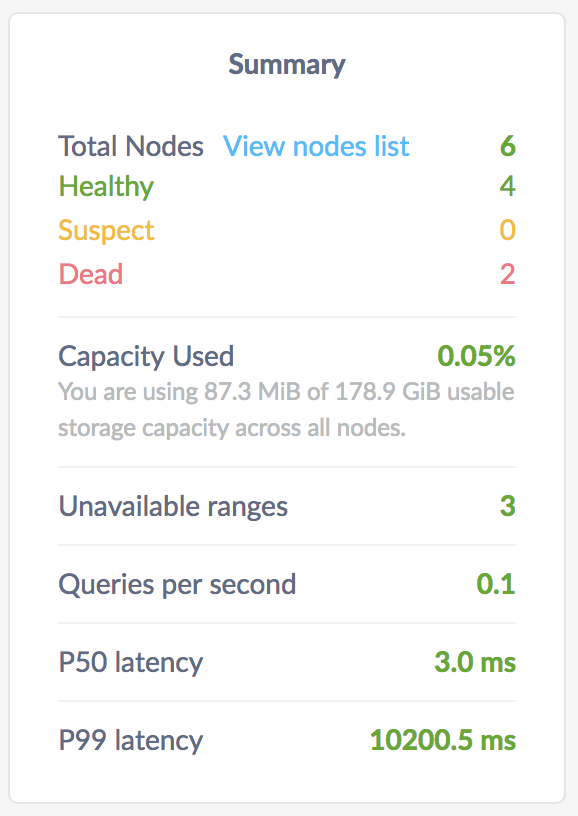
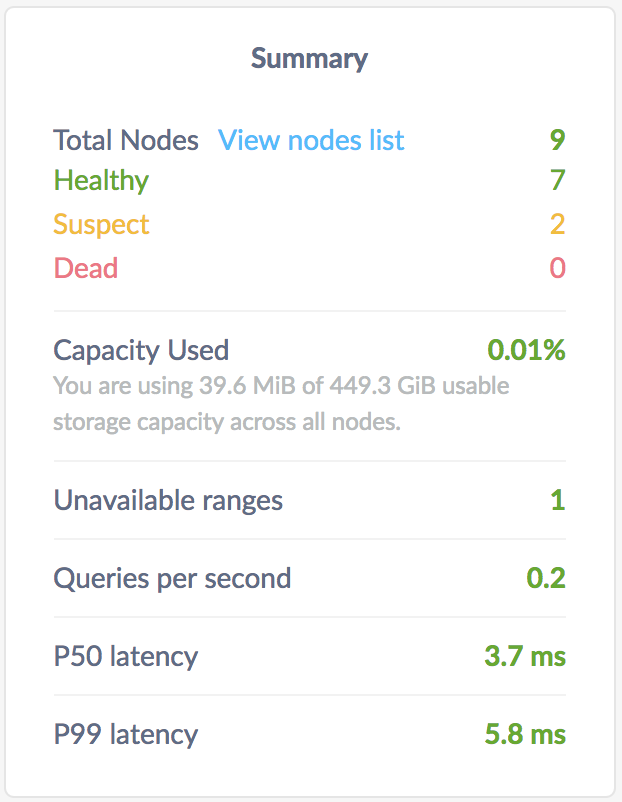
Fix data unavailability tutorial
It was broken for a few main reasons:

1. There was no guarantee that important system data wouldn't end up on
the two nodes that we're bringing down, since we were only using two
localities.
2. Even if we used 3 localities, the pattern of starting up a 3-node
cluster first and then adding more nodes means that the system ranges
may not be properly spread across the diversities, since in v1.1 we
don't proactively move data around to improve diversity.
3. A read-only query isn't guaranteed to hang even if a range is
unavailable. If we only kill the 2 non-leaseholders, the leaseholder
will still be able to keep extending its lease (via node liveness)
and serve reads.

To fix #1, I've modified this to spin up a 9 node cluster across 3
localities.
To fix #2, I've spun up all the nodes before running cockroach init.
We can go back to the old way of doing this once the labs use v2.0.
To fix #3, I've switched from demo-ing a SELECT to using an INSERT.

diff --git a/training/data-unavailability-troubleshooting.md b/training/data-unavailability-troubleshooting.md
@@ -14,15 +14,53 @@ In this lab, you'll cause a table's range to lose a majority of its replicas (2 
 </style>
 <div id="toc"></div>
 
-## Before You Begin
+## Step 1. Start a cluster spread across 3 separate localities
 
-Make sure you have already completed [Cluster Unavailability Troubleshooting](cluster-unavailability-troubleshooting.html) and have a cluster of 3 nodes running.
+Create a 9 node cluster, with 3 nodes in each of 3 different localities.
 
-## Step 1. Prepare to simulate the problem
+1. In a new terminal, start node 1 in locality us-east-1:
 
-In preparation, add three more nodes with a distinct `--locality`, add a table, and use a replication zone to force the table's data onto the new nodes.
+    {% include copy-clipboard.html %}
+    ~~~ shell
+    $ cockroach start \
+    --insecure \
+    --locality=datacenter=us-east-1 \
+    --store=node1 \
+    --host=localhost \
+    --port=26257 \
+    --http-port=8080 \
+    --join=localhost:26257,localhost:26258,localhost:26259 &
+    ~~~~
 
-1. In a new terminal, start node 4:
+2. In the same terminal, start node 2 in locality us-east-1:
+
+    {% include copy-clipboard.html %}
+    ~~~ shell
+    $ cockroach start \
+    --insecure \
+    --locality=datacenter=us-east-1 \
+    --store=node2 \
+    --host=localhost \
+    --port=26258 \
+    --http-port=8081 \
+    --join=localhost:26257,localhost:26258,localhost:26259 &
+    ~~~~
+
+3. In the same terminal, start node 3 in locality us-east-1:
+
+    {% include copy-clipboard.html %}
+    ~~~ shell
+    $ cockroach start \
+    --insecure \
+    --locality=datacenter=us-east-1 \
+    --store=node3 \
+    --host=localhost \
+    --port=26259 \
+    --http-port=8082 \
+    --join=localhost:26257,localhost:26258,localhost:26259 &
+    ~~~~
+
+4. In the same terminal, start node 4 in locality us-east-2:
 
     {% include copy-clipboard.html %}
     ~~~ shell
@@ -33,10 +71,10 @@ In preparation, add three more nodes with a distinct `--locality`, add a table, 
     --host=localhost \
     --port=26260 \
     --http-port=8083 \
-    --join=localhost:26257,localhost:26258,localhost:26259
-    ~~~~
+    --join=localhost:26257,localhost:26258,localhost:26259 &
+    ~~~
 
-2. In a new terminal, start node 5:
+5. In the same terminal, start node 5 in locality us-east-2:
 
     {% include copy-clipboard.html %}
     ~~~ shell
@@ -47,10 +85,10 @@ In preparation, add three more nodes with a distinct `--locality`, add a table, 
     --host=localhost \
     --port=26261 \
     --http-port=8084 \
-    --join=localhost:26257,localhost:26258,localhost:26259
+    --join=localhost:26257,localhost:26258,localhost:26259 &
     ~~~
 
-3. In a new terminal, start node 6:
+6. In the same terminal, start node 6 in locality us-east-2:
 
     {% include copy-clipboard.html %}
     ~~~ shell
@@ -61,21 +99,74 @@ In preparation, add three more nodes with a distinct `--locality`, add a table, 
     --host=localhost \
     --port=26262 \
     --http-port=8085 \
-    --join=localhost:26257,localhost:26258,localhost:26259
+    --join=localhost:26257,localhost:26258,localhost:26259 &
     ~~~
 
-4. In a new terminal, generate an `intro` database with a `mytable` table:
+7. In the same terminal, start node 7 in locality us-east-3:
+
+    {% include copy-clipboard.html %}
+    ~~~ shell
+    $ cockroach start \
+    --insecure \
+    --locality=datacenter=us-east-3 \
+    --store=node7 \
+    --host=localhost \
+    --port=26263 \
+    --http-port=8086 \
+    --join=localhost:26257,localhost:26258,localhost:26259 &
+    ~~~
+
+8. In the same terminal, start node 8 in locality us-east-3:
+
+    {% include copy-clipboard.html %}
+    ~~~ shell
+    $ cockroach start \
+    --insecure \
+    --locality=datacenter=us-east-3 \
+    --store=node8 \
+    --host=localhost \
+    --port=26264 \
+    --http-port=8087 \
+    --join=localhost:26257,localhost:26258,localhost:26259 &
+    ~~~
+
+9. In the same terminal, start node 9 in locality us-east-3:
+
+    {% include copy-clipboard.html %}
+    ~~~ shell
+    $ cockroach start \
+    --insecure \
+    --locality=datacenter=us-east-3 \
+    --store=node9 \
+    --host=localhost \
+    --port=26265 \
+    --http-port=8088 \
+    --join=localhost:26257,localhost:26258,localhost:26259 &
+    ~~~
+
+10. In the same terminal, perform a one-time initialization of the cluster:
+
+    {% include copy-clipboard.html %}
+    ~~~ shell
+    $ cockroach init --insecure
+    ~~~
+
+## Step 2. Simulate the problem
+
+In preparation, add a table and use a replication zone to force the table's data onto the new nodes.
+
+1. Generate an `intro` database with a `mytable` table:
 
     {% include copy-clipboard.html %}
     ~~~ shell
     $ cockroach gen example-data intro | cockroach sql --insecure
     ~~~
 
-5. Create a [replication zone](../v1.1/configure-replication-zones.html) forcing the replicas of the `mytable` range to be located on nodes with the `datacenter=us-east-2` locality:
+2. Create a [replication zone](../v1.1/configure-replication-zones.html) forcing the replicas of the `mytable` range to be located on nodes with the `datacenter=us-east-3` locality:
 
     {% include copy-clipboard.html %}
     ~~~ shell
-    $ echo 'constraints: [+datacenter=us-east-2]' | cockroach zone set intro.mytable --insecure -f -
+    $ echo 'constraints: [+datacenter=us-east-3]' | cockroach zone set intro.mytable --insecure -f -
     ~~~
 
     ~~~
@@ -84,10 +175,10 @@ In preparation, add three more nodes with a distinct `--locality`, add a table, 
     gc:
       ttlseconds: 90000
     num_replicas: 3
-    constraints: [+datacenter=us-east-2]
+    constraints: [+datacenter=us-east-3]
     ~~~
 
-6. Use the `SHOW TESTING_RANGES` SQL command to verify that the replicas for the `mytable` table are now located on nodes 4, 5, and 6:
+3. Use the `SHOW TESTING_RANGES` SQL command to determine the nodes on which the replicas for the `mytable` table are now located:
 
     {% include copy-clipboard.html %}
     ~~~ shell
@@ -100,29 +191,45 @@ In preparation, add three more nodes with a distinct `--locality`, add a table, 
     +-----------+---------+----------+--------------+
     | Start Key | End Key | Replicas | Lease Holder |
     +-----------+---------+----------+--------------+
-    | NULL      | NULL    | {4,5,6}  |            6 |
+    | NULL      | NULL    | {3,6,9}  |            9 |
     +-----------+---------+----------+--------------+
     (1 row)
     ~~~
 
-## Step 2. Simulate the problem
+4. Verify that the listed nodes are all in the `datacenter=us-east-3` locality by opening the Node Diagnostics debug page at <a href="http://localhost:8080/#/reports/nodes" data-proofer-ignore>http://localhost:8080/#/reports/nodes</a> and checking the locality for each of the 3 node IDs.
 
-Stop 2 of the nodes containing `mytable` replicas. This will cause the range to lose a majority of its replicas and become unavailable. However, because all system ranges are on other nodes, the cluster as whole will remain available.
+    <img src="{{ 'images/training-19.png' | relative_url }}" alt="CockroachDB Admin UI" style="border:1px solid #eee;max-width:100%" />
 
-1. In the terminal where node 5 is running, press **CTRL + C**.
+## Step 3. Simulate the problem
 
-2. In the terminal where node 6 is running, press **CTRL + C**.
+Stop 2 of the nodes containing `mytable` replicas. This will cause the range to lose a majority of its replicas and become unavailable. However, all other ranges are spread evenly across all three localities because the replication zone only applies to `mytable`, so the cluster as a whole will remain available.
 
-## Step 3. Troubleshoot the problem
+1. Kill nodes 8 and 9:
 
-1. In a new terminal, try to query the `mytable` table, pointing at a node that is still online:
+    {% include copy-clipboard.html %}
+    ~~~ shell
+    $ cockroach quit \
+    --insecure \
+    --port=26264
+    ~~~
+
+    {% include copy-clipboard.html %}
+    ~~~ shell
+    $ cockroach quit \
+    --insecure \
+    --port=26265
+    ~~~
+
+## Step 4. Troubleshoot the problem
+
+1. In a new terminal, try to insert into the `mytable` table, pointing at a node that is still online:
 
     {% include copy-clipboard.html %}
     ~~~ shell
     $ cockroach sql \
     --insecure \
     --port=26257 \
-    --execute="SELECT * FROM intro.mytable LIMIT 10;" \
+    --execute="INSERT INTO intro.mytable VALUES (42, '')" \
     --logtostderr=WARNING
     ~~~
 
@@ -136,7 +243,7 @@ Stop 2 of the nodes containing `mytable` replicas. This will cause the range to 
 
     <img src="{{ 'images/training-14.png' | relative_url }}" alt="CockroachDB Admin UI" style="border:1px solid #eee;max-width:100%" />
 
-    You'll see that at least 1 range is now unavailable. If the unavailable count is larger than 1, that means that some system ranges had a majority of replicas on the down nodes as well.
+    You should see that 1 range is now unavailable. If the unavailable count is larger than 1, that would mean that some system ranges had a majority of replicas on the down nodes as well.
 
     The **Summary** panel on the right should tell you the same thing:
 
@@ -146,39 +253,39 @@ Stop 2 of the nodes containing `mytable` replicas. This will cause the range to 
 
     <img src="{{ 'images/training-16.png' | relative_url }}" alt="CockroachDB Admin UI" style="border:1px solid #eee;max-width:100%" />
 
-## Step 4. Resolve the problem
+## Step 5. Resolve the problem
 
-1. In the terminal where node 5 was running, restart the node:
+1. Restart the stopped nodes:
 
     {% include copy-clipboard.html %}
     ~~~ shell
     $ cockroach start \
     --insecure \
-    --locality=datacenter=us-east-2 \
-    --store=node5 \
+    --locality=datacenter=us-east-3 \
+    --store=node8 \
     --host=localhost \
-    --port=26261 \
-    --http-port=8084 \
-    --join=localhost:26257,localhost:26258,localhost:26259
+    --port=26264 \
+    --http-port=8087 \
+    --join=localhost:26257,localhost:26258,localhost:26259 &
     ~~~
 
-2. In the terminal where node 6 was running, restart the node:
-
     {% include copy-clipboard.html %}
     ~~~ shell
     $ cockroach start \
     --insecure \
-    --locality=datacenter=us-east-2 \
-    --store=node6 \
+    --locality=datacenter=us-east-3 \
+    --store=node9 \
     --host=localhost \
-    --port=26262 \
-    --http-port=8085 \
-    --join=localhost:26257,localhost:26258,localhost:26259
+    --port=26265 \
+    --http-port=8088 \
+    --join=localhost:26257,localhost:26258,localhost:26259 &
     ~~~
 
 3. Go back to the Admin UI and verify that ranges are no longer unavailable.
 
-## Step 5. Clean up
+4. Check back on your `INSERT` statement that was stuck and verify that it completed successfully.
+
+## Step 6. Clean up
 
 In the next lab, you'll start a new cluster from scratch, so take a moment to clean things up.
 
@@ -193,7 +300,7 @@ In the next lab, you'll start a new cluster from scratch, so take a moment to cl
 
     {% include copy-clipboard.html %}
     ~~~ shell
-    $ rm -rf node1 node2 node3 node4 node5 node6
+    $ rm -rf node1 node2 node3 node4 node5 node6 node7 node8 node9
     ~~~
 
 ## What's Next?

diff --git a/training/cluster-unavailability-troubleshooting.md b/training/cluster-unavailability-troubleshooting.md
@@ -53,7 +53,6 @@ Make sure you have already completed [Under-Replication Troubleshooting](under-r
     ~~~ shell
     $ cockroach start \
     --insecure \
-    --locality=datacenter=us-east-1 \
     --store=node2 \
     --host=localhost \
     --port=26258 \
@@ -67,7 +66,6 @@ Make sure you have already completed [Under-Replication Troubleshooting](under-r
     ~~~ shell
     $ cockroach start \
     --insecure \
-    --locality=datacenter=us-east-1 \
     --store=node3 \
     --host=localhost \
     --port=26259 \
@@ -89,6 +87,24 @@ Make sure you have already completed [Under-Replication Troubleshooting](under-r
     | system             |
     +--------------------+
     (4 rows)
+    ~~~
+
+## Clean up
+
+In the next module, you'll start a new cluster from scratch, so take a moment to clean things up.
+
+1. Stop all CockroachDB nodes:
+
+    {% include copy-clipboard.html %}
+    ~~~ shell
+    $ pkill -9 cockroach
+    ~~~
+
+2. Remove the nodes' data directories:
+
+    {% include copy-clipboard.html %}
+    ~~~ shell
+    $ rm -rf node1 node2 node3
     ~~~
 
 ## What's Next?

diff --git a/training/under-replication-troubleshooting.md b/training/under-replication-troubleshooting.md
@@ -26,7 +26,6 @@ In this lab, you'll start with a fresh cluster, so make sure you've stopped and 
     ~~~ shell
     $ cockroach start \
     --insecure \
-    --locality=datacenter=us-east-1 \
     --store=node1 \
     --host=localhost \
     --port=26257 \
@@ -40,7 +39,6 @@ In this lab, you'll start with a fresh cluster, so make sure you've stopped and 
     ~~~ shell
     $ cockroach start \
     --insecure \
-    --locality=datacenter=us-east-1 \
     --store=node2 \
     --host=localhost \
     --port=26258 \
@@ -54,7 +52,6 @@ In this lab, you'll start with a fresh cluster, so make sure you've stopped and 
     ~~~ shell
     $ cockroach start \
     --insecure \
-    --locality=datacenter=us-east-1 \
     --store=node3 \
     --host=localhost \
     --port=26259 \
@@ -104,7 +101,6 @@ To bring the cluster back to a safe state, you need to either restart the down n
     ~~~ shell
     $ cockroach start \
     --insecure \
-    --locality=datacenter=us-east-1 \
     --store=node3 \
     --host=localhost \
     --port=26259 \
